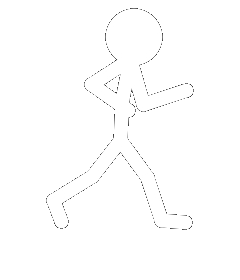
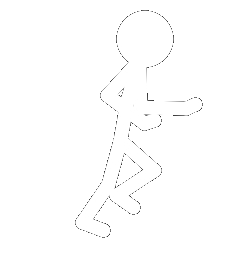
37 - runner animation adjustments
37 - runner animation adjustments

diff --git a/core/src/com/mygdx/game/Screens/IntroScreen.java b/core/src/com/mygdx/game/Screens/IntroScreen.java
@@ -23,6 +23,7 @@ public class IntroScreen extends AbstractScreen{
     private float elapsedTime = 0;
     private int positionX;
     private int positionY;
+    private boolean animationAction;
 
     private Texture frame1;
     private Texture frame2;
@@ -36,9 +37,6 @@ public class IntroScreen extends AbstractScreen{
     private Texture frame10;
     private Texture frame11;
     private Texture frame12;
-    private Texture frame13;
-    private Texture frame14;
-    private Texture frame15;
 
     private Animation runnerAnimation;
 
@@ -51,8 +49,9 @@ public class IntroScreen extends AbstractScreen{
         fontSizeIntro = ForgottenLife.WIDTH / 20;
         parameter.size = fontSizeIntro;
         wordArtIntro = generator.generateFont(parameter);
-        positionX = -200;
+        positionX = -150;
         positionY = 0;
+        animationAction = true;
 
         frame1 = new Texture(Gdx.files.internal("frame1.png"));
         frame2 = new Texture(Gdx.files.internal("frame2.png"));
@@ -66,11 +65,8 @@ public class IntroScreen extends AbstractScreen{
         frame10 = new Texture(Gdx.files.internal("frame10.png"));
         frame11 = new Texture(Gdx.files.internal("frame11.png"));
         frame12 = new Texture(Gdx.files.internal("frame12.png"));
-        frame13 = new Texture(Gdx.files.internal("frame13.png"));
-        frame14 = new Texture(Gdx.files.internal("frame14.png"));
-        frame15 = new Texture(Gdx.files.internal("frame15.png"));
 
-        runnerAnimation = new Animation(0.06f, frame1, frame2, frame3, frame4, frame5, frame6, frame7, frame8, frame9, frame10, frame11, frame12, frame13, frame14, frame15);
+        runnerAnimation = new Animation(0.1f, frame2, frame3, frame4, frame5, frame6, frame7, frame8, frame9, frame10, frame11, frame12, frame1);
 
     }
 
@@ -79,7 +75,7 @@ public class IntroScreen extends AbstractScreen{
         super.render(delta);
         spriteBatch.begin();
         drawingText();
-        spriteBatch.draw((Texture) runnerAnimation.getKeyFrame(elapsedTime, true), positionX, positionY);
+        spriteBatch.draw((Texture) runnerAnimation.getKeyFrame(elapsedTime, animationAction), positionX, positionY);
         spriteBatch.end();
 
         fadeElapsed += delta / delay;
@@ -106,9 +102,6 @@ public class IntroScreen extends AbstractScreen{
         frame10.dispose();
         frame11.dispose();
         frame12.dispose();
-        frame13.dispose();
-        frame14.dispose();
-        frame15.dispose();
     }
 
     private void drawingText() {
@@ -136,15 +129,18 @@ public class IntroScreen extends AbstractScreen{
     }
 
     private void movingRunner() {
-        positionX += 300 * Gdx.graphics.getDeltaTime();
-        if(positionX > 1920){
-            positionX = -200;
+        if(animationAction == true) {
+            positionX += 244 * Gdx.graphics.getDeltaTime();
+            if (positionX > 1920) {
+                positionX = -150;
+            }
         }
     }
 
     private void goToMenuScreen() {
         if (fade3 >= 1){
-            game.setScreen(new MenuScreen(game));
+            animationAction = false;
+            //game.setScreen(new MenuScreen(game));
         }
     }
 
